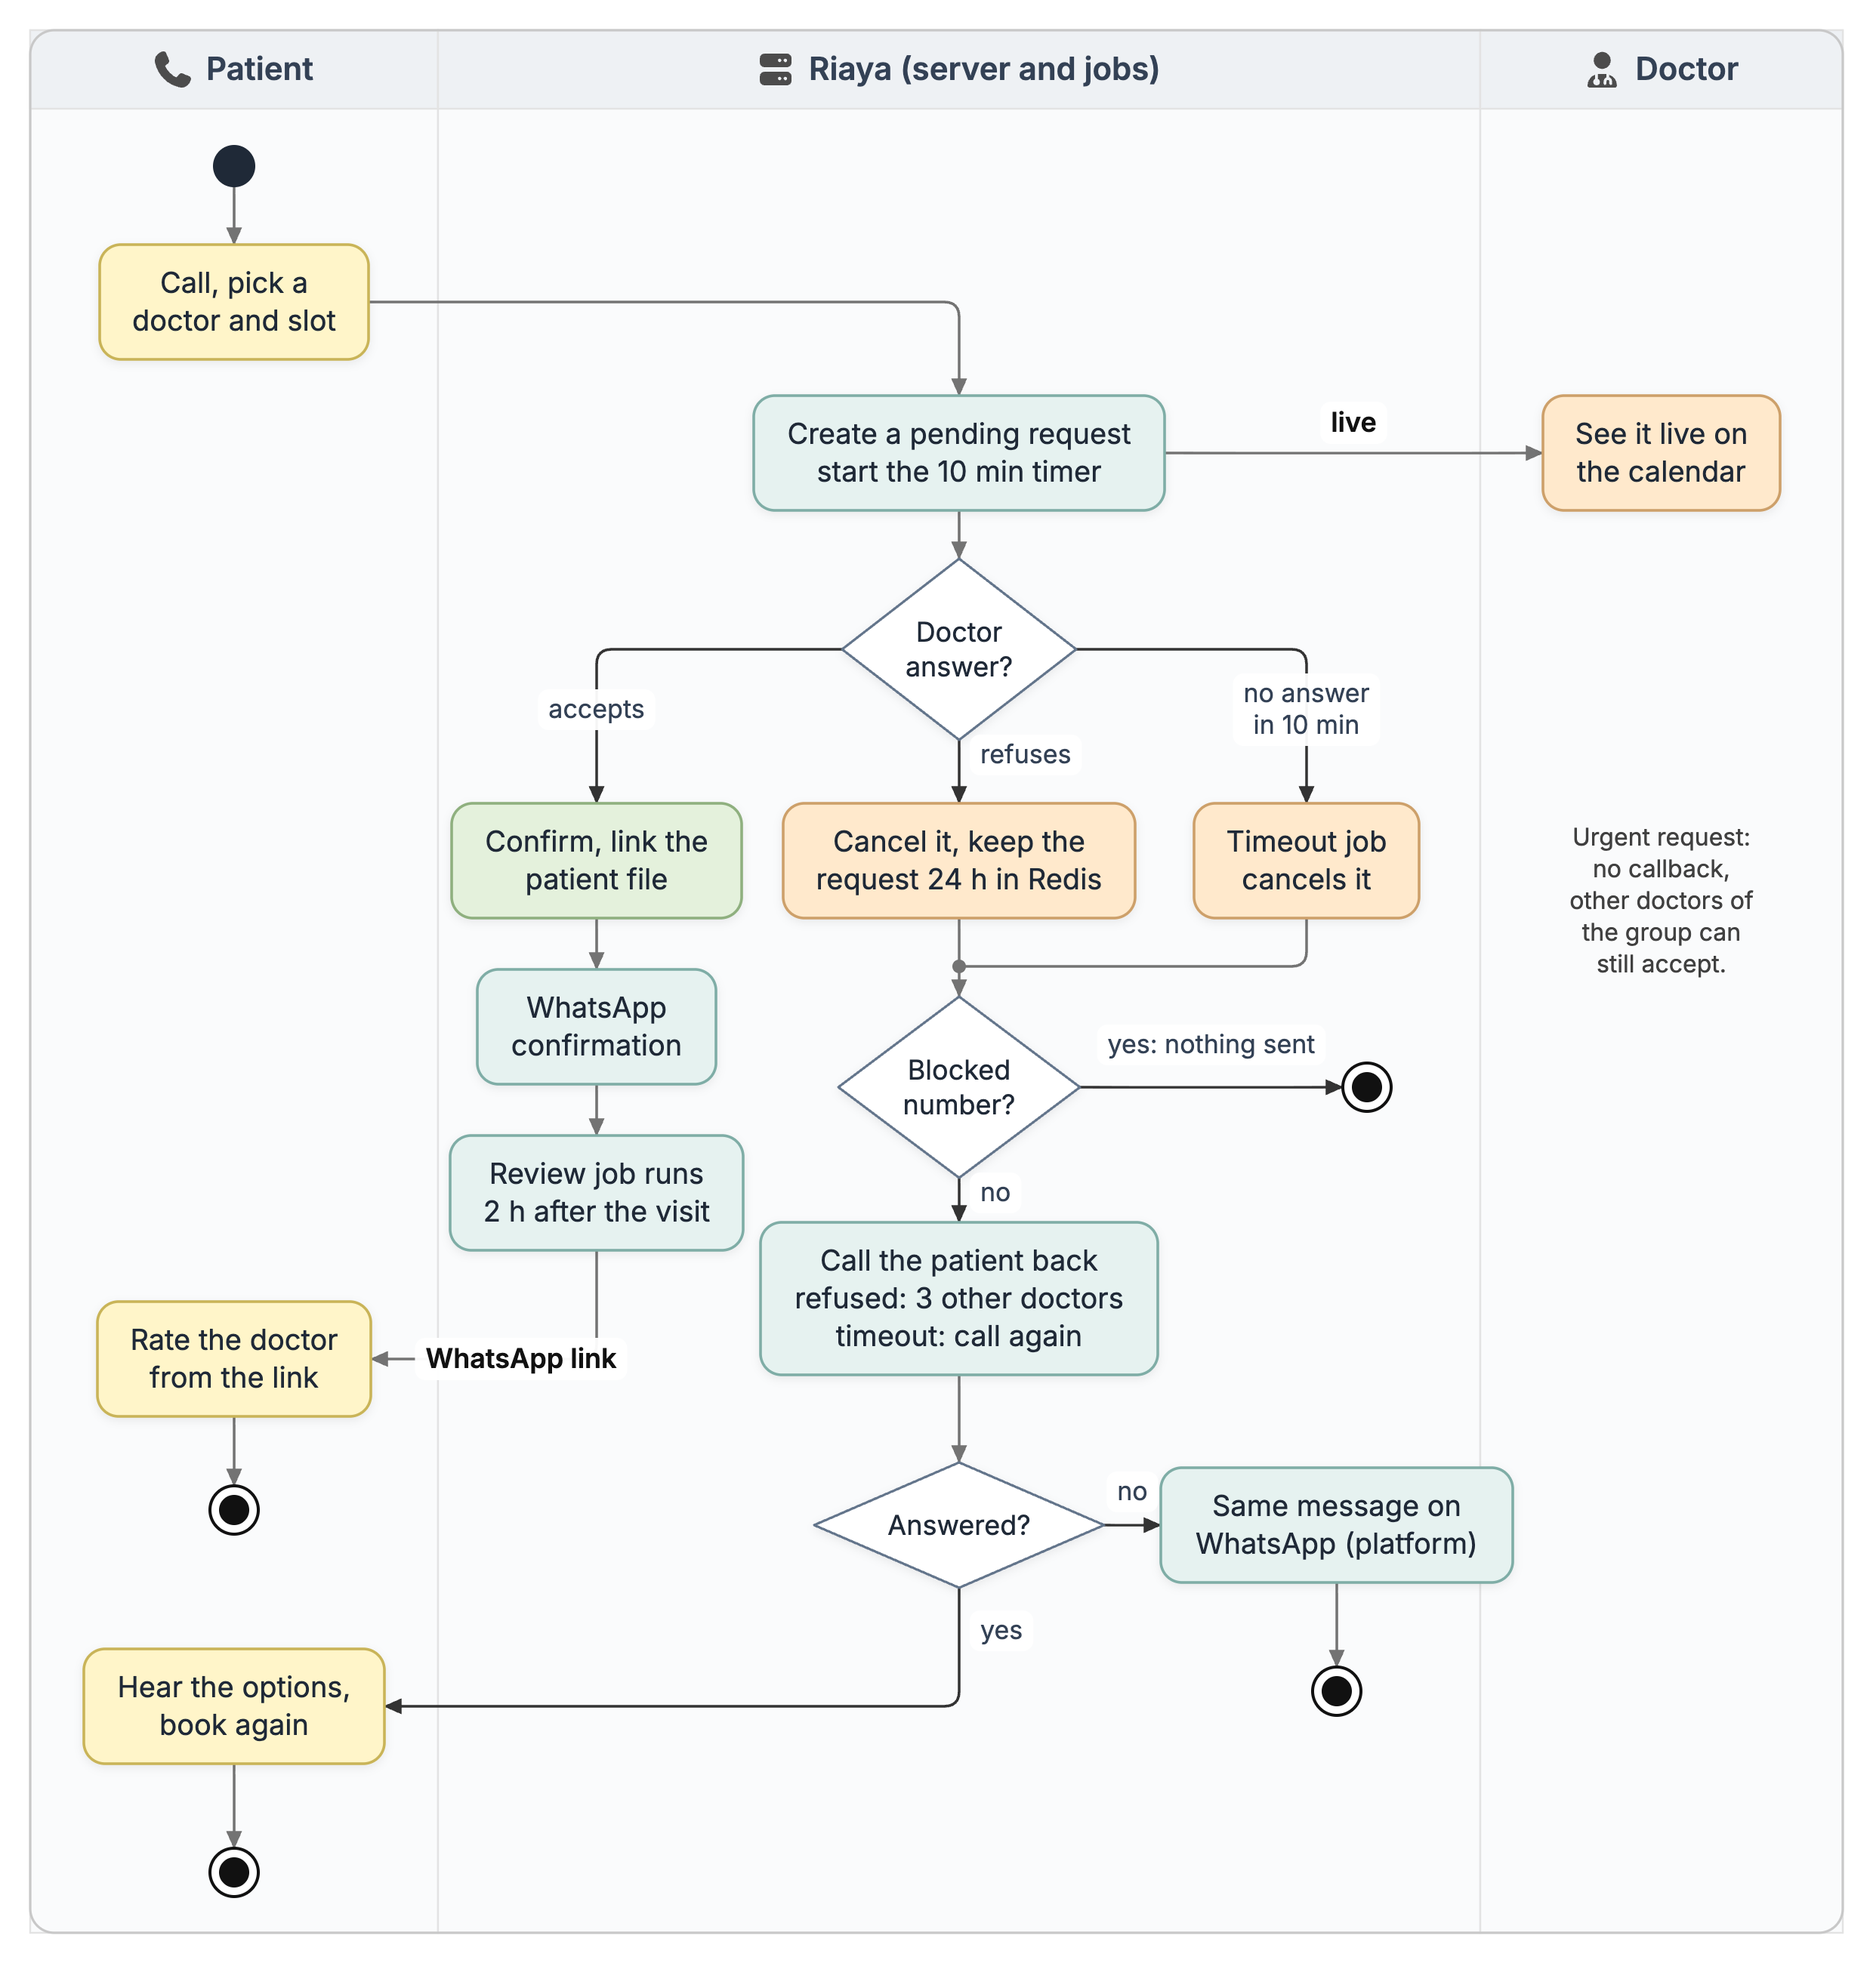
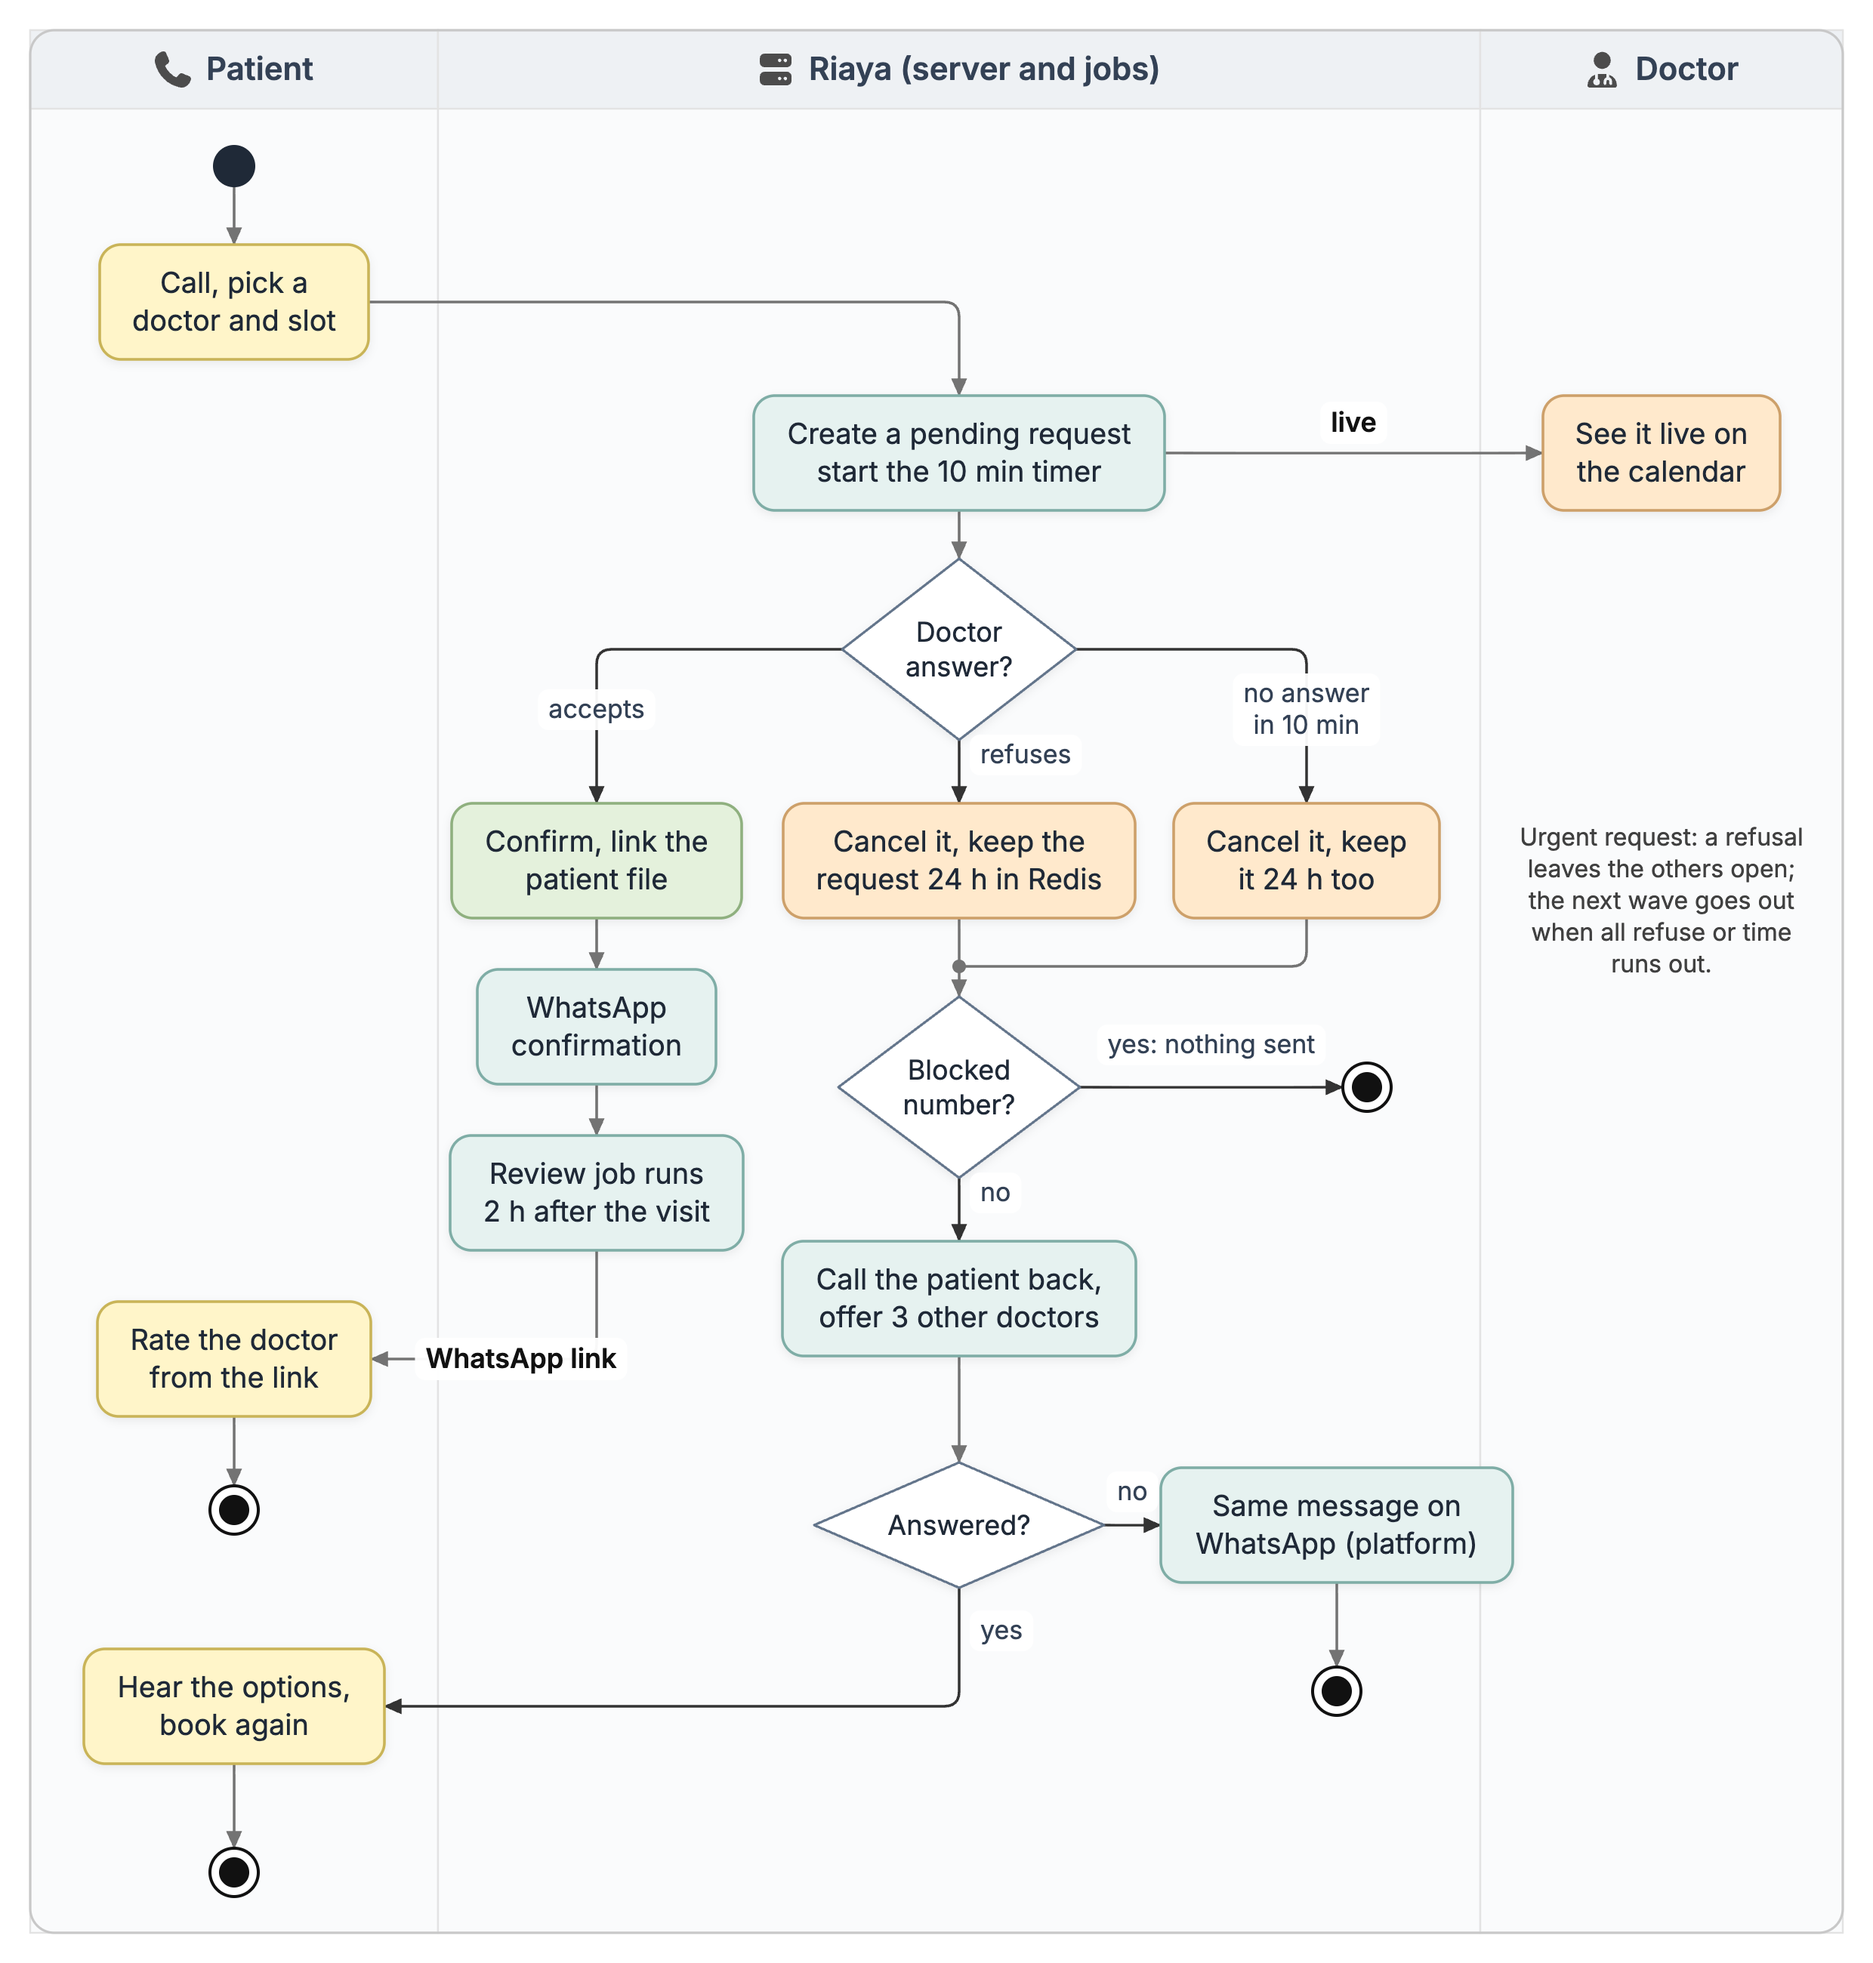
Say the callback offers other doctors after a timeout as well
Chapters 2 and 3b, the callback BPMN and the refusal/timeout activity diagram
now show that a timed-out request is kept like a refused one, so the callback
offers other doctors in both cases.

Changed region(s): [[0.4036, 0.6231, 0.621, 0.7165], [0.8073, 0.405, 0.9625, 0.4985], [0.621, 0.405, 0.7762, 0.4673]]

diff --git a/images/diagrams/src/activity_refusal_timeout.js b/images/diagrams/src/activity_refusal_timeout.js
@@ -23,10 +23,10 @@ function draw(K) {
   K.end({id: 'e1', cx: P, cy: 1000});
   // refuse / timeout
   K.act({id: 'ref', cx: R, cy: 570, text: 'Cancel it, keep the\nrequest 24 h in Redis', kind: 'warn'});
-  K.act({id: 'to', cx: RR, cy: 570, text: 'Timeout job\ncancels it', kind: 'warn'});
+  K.act({id: 'to', cx: RR, cy: 570, text: 'Cancel it, keep\nit 24 h too', kind: 'warn'});
   K.dec({id: 'blk', cx: R, cy: 720, text: 'Blocked\nnumber?'});
   K.end({id: 'e2', cx: RR + 40, cy: 720});
-  K.act({id: 'cb', cx: R, cy: 860, text: 'Call the patient back\nrefused: 3 other doctors\ntimeout: call again', kind: 'sys'});
+  K.act({id: 'cb', cx: R, cy: 860, text: 'Call the patient back,\noffer 3 other doctors', kind: 'sys'});
   K.dec({id: 'pick', cx: R, cy: 1010, text: 'Answered?'});
   K.act({id: 'wam', cx: RR + 20, cy: 1010, text: 'Same message on\nWhatsApp (platform)', kind: 'sys'});
   K.end({id: 'e3', cx: RR + 20, cy: 1120});
@@ -62,5 +62,5 @@ function draw(K) {
   E({pts: [K.P('pick', 'b'), [R, 1130], K.P('talk', 'r')], kind: 'amber'});
   K.guard(R + 14, 1080, 'yes', '#111111', 'start');
   E({pts: [K.P('talk', 'b'), K.P('e4', 't')]});
-  K.text(D, 560, 'Urgent request:\nno callback,\nother doctors of\nthe group can\nstill accept.', {size: 16, color: '#404040', anchor: 'middle'});
+  K.text(D, 560, 'Urgent request: a refusal\nleaves the others open;\nthe next wave goes out\nwhen all refuse or time\nruns out.', {size: 16, color: '#404040', anchor: 'middle'});
 }

diff --git a/chap_02.tex b/chap_02.tex
@@ -244,7 +244,7 @@ When the stream opens, the call session asks the web application for what it alr
 
 \xref{fig:sequence_callback} covers what happens when a pending request is not accepted. Either the doctor refuses it from the dashboard, and the booking controller cancels the appointment and adds a callback job to the queue, or the doctor does not answer within 10 minutes and the delayed job created at booking time becomes due. In both cases the callback worker of the voice server runs the job through BullMQ, asks the web application for the phone number and the message, and places an outbound call through Twilio.
 
-If the patient answers, the worker asks the booking controller for up to three other doctors with free slots, the AI offers them, and the doctor the patient chooses gets a new pending request. After a timeout, the AI asks the patient to call again instead. If the call is not answered, is busy or fails, the worker sends the same message on WhatsApp.
+If the patient answers, the worker asks the booking controller for up to three other doctors with free slots, the AI offers them, and the doctor the patient chooses gets a new pending request. If the call is not answered, is busy or fails, the worker sends the same message on WhatsApp.
 
 \subsection{Activity Diagrams: Sign-up and Urgent Booking}
 The two activity diagrams use swimlanes to show who does each step. Decisions are drawn as diamonds and end states as circled dots.
@@ -310,7 +310,7 @@ In the normal path, a gateway checks for urgent signs. If there are any, the AI 
 
 \xref{fig:bpmn_callback} has three pools. The patient and the doctor are black-box pools: only the messages they exchange with Riaya are drawn, as dashed message flows. The Riaya pool has two lanes, AI system and Server and jobs. After the link event from part~A, an event-based gateway waits for whichever of three events comes first. The ``Doctor accepts'' message leads to confirming the request, linking the patient file and sending a WhatsApp message to the patient; a timer then waits until 2 hours after the visit, and the server sends the review link. A 10-minute timer with no answer leads to cancelling the request. The ``Doctor refuses'' message leads to cancelling it and keeping the request for 24 hours in Redis.
 
-The timeout and refusal paths merge at a gateway that checks whether the number is blocked. A blocked number gets nothing. For any other number, the AI system calls the patient back, offering three other doctors after a refusal or asking the patient to call again after a timeout. If the patient does not answer, a WhatsApp message goes out from the platform account. Part~B draws the normal request only; the rules of urgent groups, where a refusal leaves the other requests open, are in \xref{fig:activity_urgent}.
+The timeout and refusal paths merge at a gateway that checks whether the number is blocked. A blocked number gets nothing. For any other number, the AI system calls the patient back and offers three other doctors, for the same person and reason. If the patient does not answer, a WhatsApp message goes out from the platform account. Part~B draws the normal request only; the rules of urgent groups, where a refusal leaves the other requests open, are in \xref{fig:activity_urgent}.
 
 \section{Conclusion}
 This chapter presented the Kanban method, compared it with Scrum and Waterfall, and explained why it suited a project with one developer, requests arriving through the company founder and frequent feedback from the client. It then modeled Riaya from several angles. The use case diagrams list what each of the five actors does. The three class diagrams explain the data model, in particular the split between person, phone and patient file, and the usage rows behind the plan limits. The sequence, activity and BPMN diagrams follow a call, the urgent flow and the answers to a request step by step, and the deployment diagram shows how the code reaches the VPS. The next chapter covers the technical architecture and the implementation.

diff --git a/chap_03b.tex b/chap_03b.tex
@@ -57,7 +57,7 @@ A patient in an urgent case should not wait 10 minutes for one doctor and then s
 \subsection{Refusals and Callbacks}
 \label{subsec:rejection-handling}
 
-We had to decide what happens when a doctor refuses a request or does not answer. Our first idea was to ask the patient for a backup doctor during the call. The call already asks many questions, though, and we wanted to keep it short. So the patient picks one doctor, and if that doctor says no or stays silent, Riaya calls the patient back with new options. After a refusal, Riaya keeps what the patient asked for in Redis for 24 hours: the speciality, the place the patient searched from, the preferred time, and who the visit is for and why. The AI speaks first in the callback and offers up to 3 other doctors with free slots near that place, and it books the one the patient picks for the same person and reason without asking again. If the patient calls Riaya before that, the AI offers these doctors first. After a timeout, the callback only asks the patient to call again. A callback that does not reach the patient is replaced by the same message on WhatsApp from the platform account, and blocked numbers get neither. \xref{fig:bpmn_callback} in \chapref{chap:management} shows the three outcomes of a normal request, and \xref{fig:sequence_callback} shows how the queue, the web app, the voice server and Twilio work together for these callbacks.
+We had to decide what happens when a doctor refuses a request or does not answer. Our first idea was to ask the patient for a backup doctor during the call. The call already asks many questions, though, and we wanted to keep it short. So the patient picks one doctor, and if that doctor says no or stays silent, Riaya calls the patient back with new options. After a refusal, or when no doctor answers in time, Riaya keeps what the patient asked for in Redis for 24 hours: the speciality, the place the patient searched from, the preferred time, and who the visit is for and why. The AI speaks first in the callback and offers up to 3 other doctors with free slots near that place, and it books the one the patient picks for the same person and reason without asking again. If the patient calls Riaya before that, the AI offers these doctors first. A callback that does not reach the patient is replaced by the same message on WhatsApp from the platform account, and blocked numbers get neither. \xref{fig:bpmn_callback} in \chapref{chap:management} shows the three outcomes of a normal request, and \xref{fig:sequence_callback} shows how the queue, the web app, the voice server and Twilio work together for these callbacks.
 
 \subsection{Patient Reviews and Referral Quality}\label{subsec:reviews}
 
